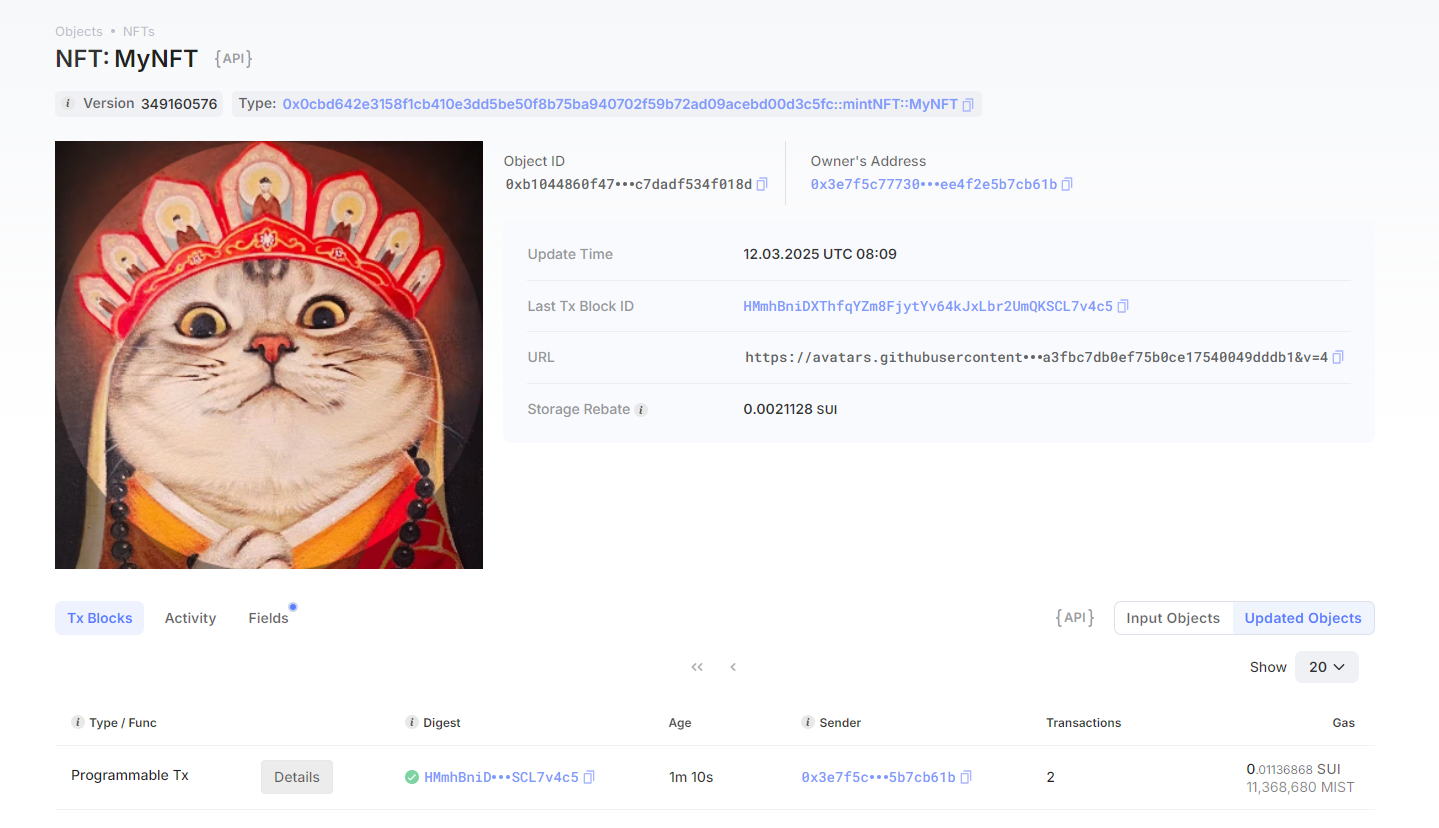
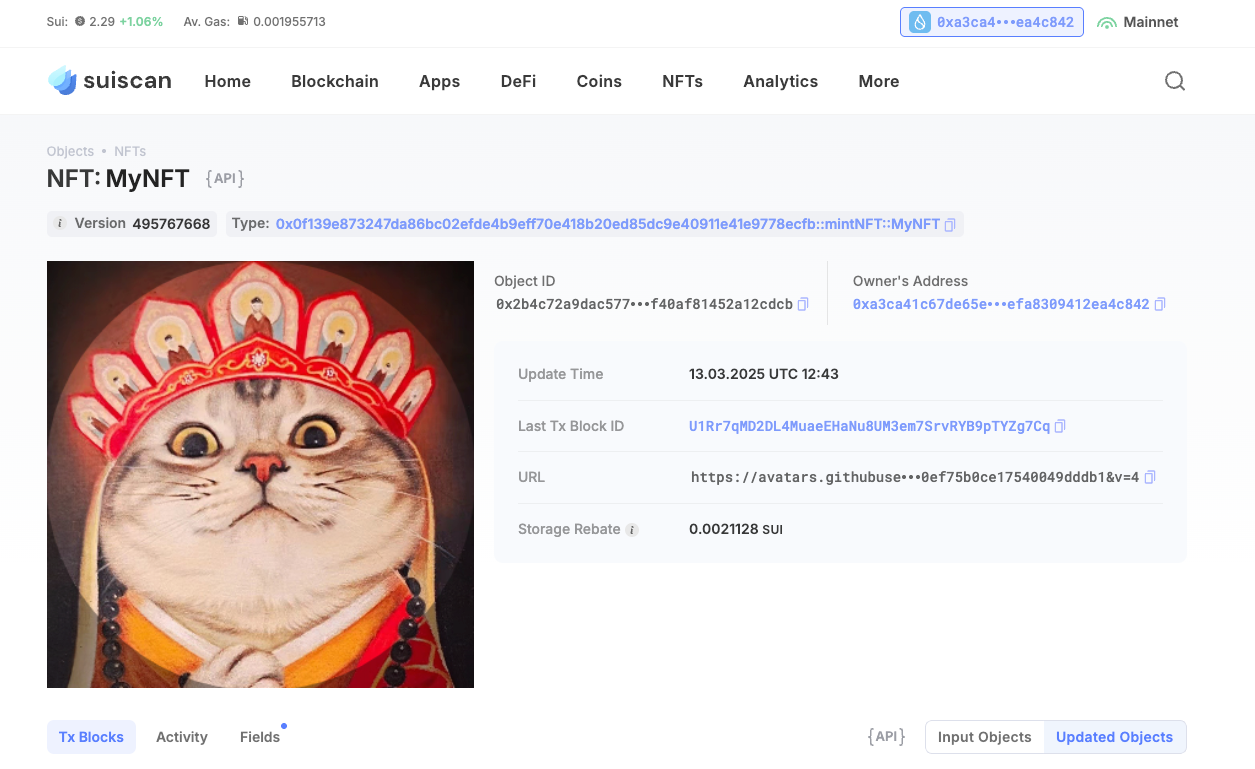
提交task2作业-主网部署

diff --git a/mover/xiaoshuaiM/readme.md b/mover/xiaoshuaiM/readme.md
@@ -26,9 +26,9 @@
 - [x] `Faucet Coin` address2 mint hash:E5eB52tqiEVScJjxM1Pye2na99u5gdhMaUWQnBooRKL6
 
 ##   03 move NFT
-- [x] nft package id : 0x0cbd642e3158f1cb410e3dd5be50f8b75ba940702f59b72ad09acebd00d3c5fc
-- [x] nft object id : 0xb1044860f478e731a429d3028a8d1181238e86a993b5668fb2c7dadf534f018d
-- [x] 转账 nft  hash:  HanNn12YjNL3AcTGgXTy4j2dDxtipUWyLDzRCNedPuiL
+- [x] nft package id : 0x0f139e873247da86bc02efde4b9eff70e418b20ed85dc9e40911e41e9778ecfb
+- [x] nft object id : 0x2b4c72a9dac5770ad43aed6bd46d02dafb322bff2f0502af40af81452a12cdcb
+- [x] 转账 nft  hash:  58TZibtaUEHDrmZRTB9RQ3u3e3bcUPfdh4uruyad19WE
 - [x] scan上的NFT截图:![Scan截图](./images/my_nft.png)
 
 ##   04 Move Game
